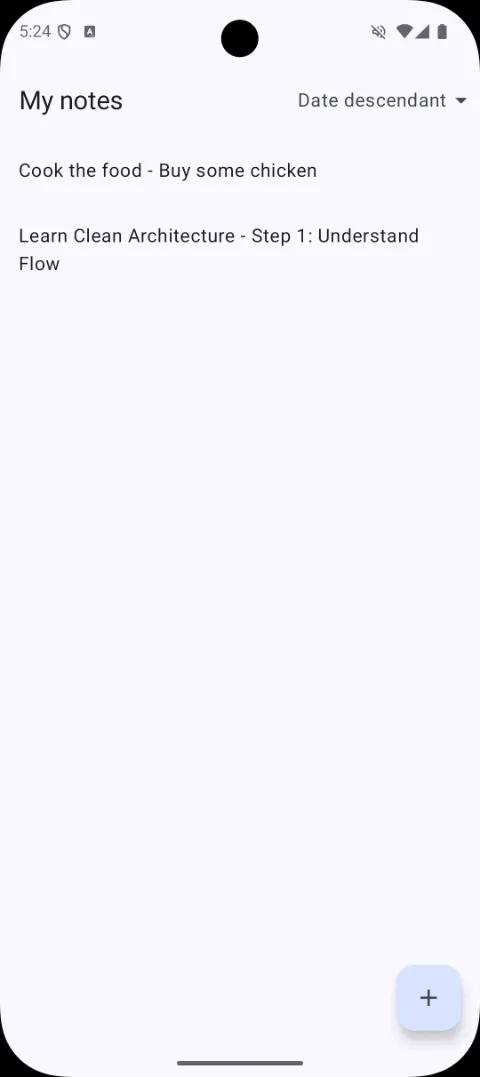
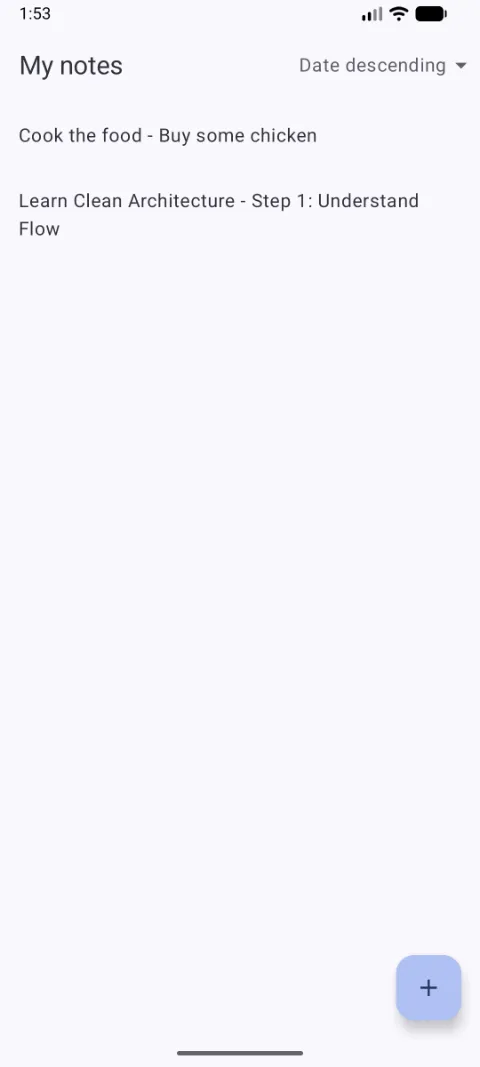
fix(data): Sync ModernNotes with its repo at 4eba15e
The app's sort menu now reads "Date descending / ascending"; recapture and alt texts (EN and ES) follow, pin moves.

diff --git a/data/portfolio.js b/data/portfolio.js
@@ -166,12 +166,12 @@
       ],
       stack: ["Kotlin", "Compose", "Coroutines", "Flow", "Hilt", "Room", "DataStore", "Retrofit", "MVVM", "Clean Architecture", "JUnit", "MockK"],
       links: { repo: "https://github.com/voltek/ModernNotes", caseStudy: "modernnotes.html" },
-      pin: { date: "2026-10-16", commit: "3274436" }, // the case file's pin; tools/repo-changes.js reads it here
+      pin: { date: "2026-11-24", commit: "4eba15e" }, // the case file's pin; tools/repo-changes.js reads it here
       // on: where each screen appears ("plain", "show", "case"). No screens = the designed empty state.
       shots: [
-        { src: "assets/projects/modernnotes/home.png", label: "Home", alt: "ModernNotes list screen titled My notes, with two notes and a sort menu set to Date descendant", on: ["case"] },
-        { src: "assets/projects/modernnotes/filters.png", label: "Sort order", alt: "ModernNotes sort menu open with three options: Date descendant (selected), Date ascendant and Title", on: ["case"] },
-        { src: "assets/projects/modernnotes/detail.png", label: "Edit note", alt: "ModernNotes Edit Note screen with a title field and a content field, and a Save action", on: ["case"] }
+        { src: "assets/projects/modernnotes/home.png", label: "Home", alt: { en: "ModernNotes list screen titled My notes, with two notes and a sort menu set to Date descending", es: "Pantalla de lista de ModernNotes titulada My notes, con dos notas y un menú de orden en Date descending" }, on: ["case"] },
+        { src: "assets/projects/modernnotes/filters.png", label: "Sort order", alt: { en: "ModernNotes sort menu open with three options: Date descending (selected), Date ascending and Title", es: "Menú de orden de ModernNotes abierto con tres opciones: Date descending (seleccionada), Date ascending y Title" }, on: ["case"] },
+        { src: "assets/projects/modernnotes/detail.png", label: "Edit note", alt: { en: "ModernNotes Edit Note screen with a title field and a content field, and a Save action", es: "Pantalla Edit Note de ModernNotes con un campo de título, un campo de contenido y la acción Save" }, on: ["case"] }
       ],
       show: { title: ["Written", "by Hand"], prop: "notepad" }
     },

diff --git a/data/cases/modernnotes.js b/data/cases/modernnotes.js
@@ -10,7 +10,7 @@
 //   that say something the page has not said yet (DECISIONS.md → Case page rules).
 module.exports = {
   id: "mn",
-  pin: { commit: "3274436", date: "2026-10-16" },
+  pin: { commit: "4eba15e", date: "2026-11-24" },
   roots: {
     repo: "",
     main: "app/src/main/java/com/example/modernnotes/",
